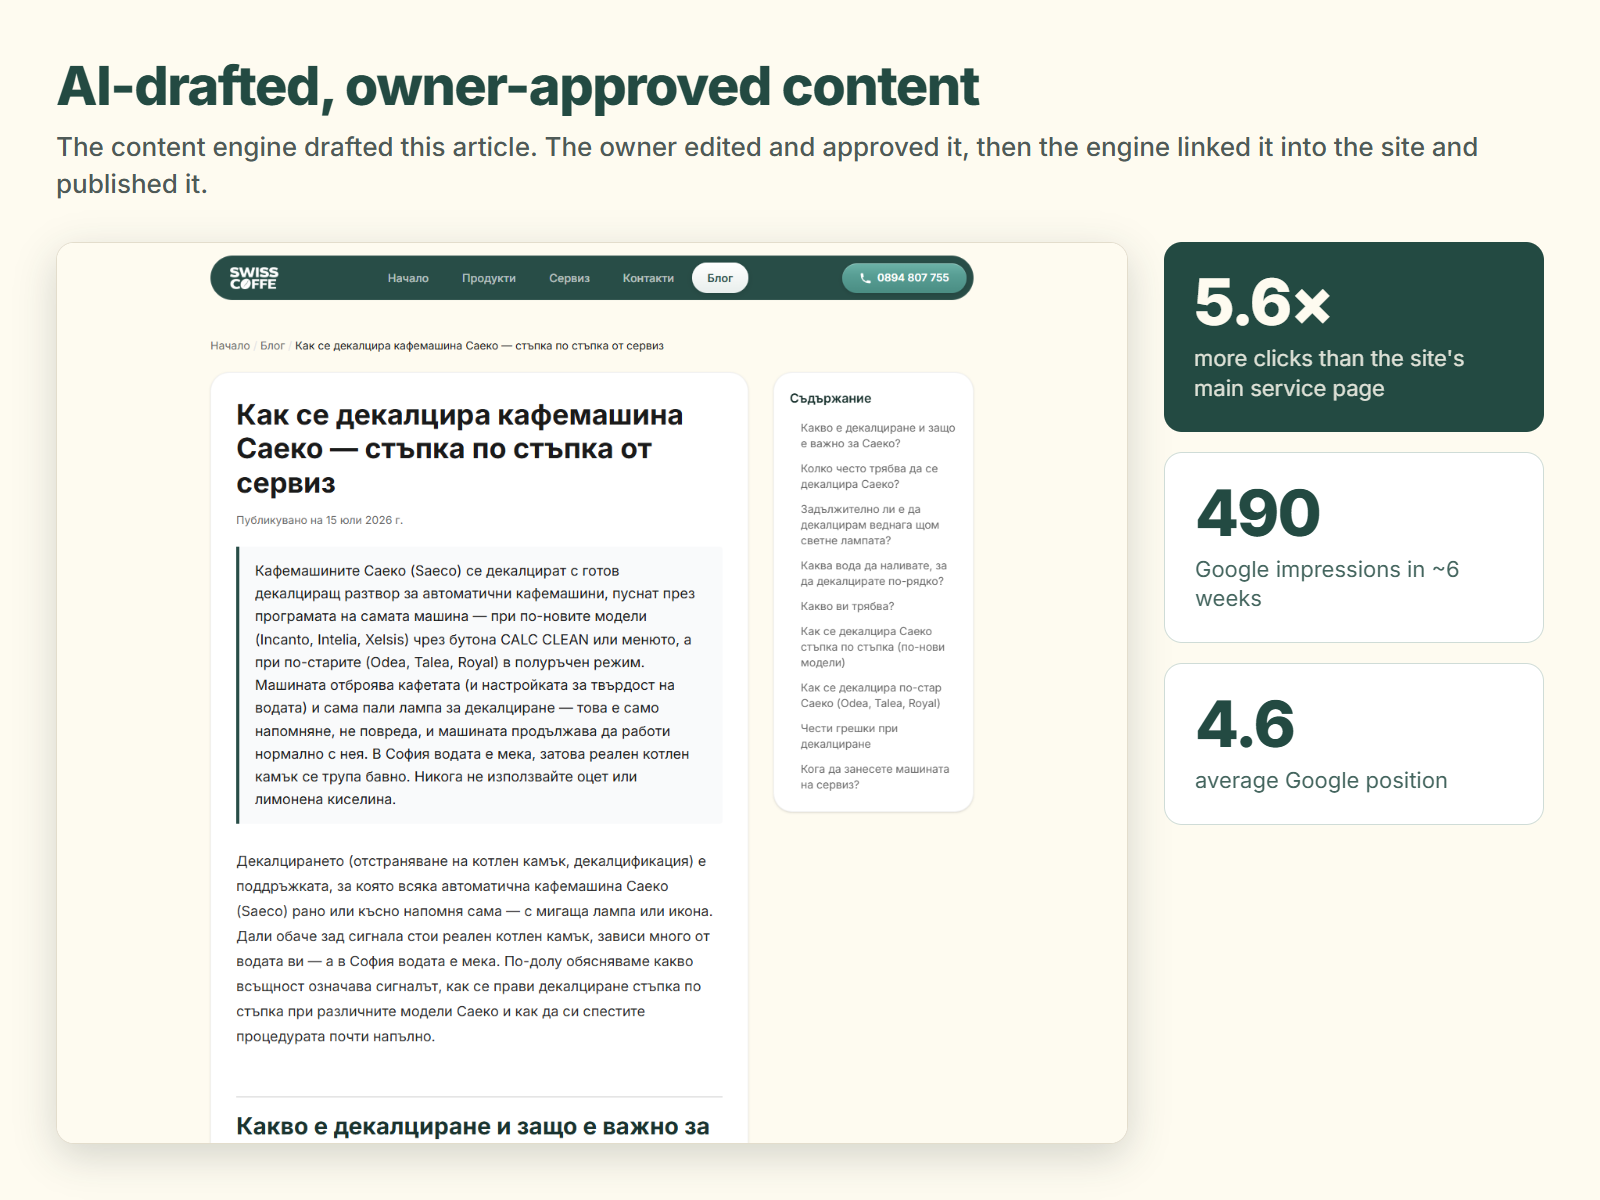
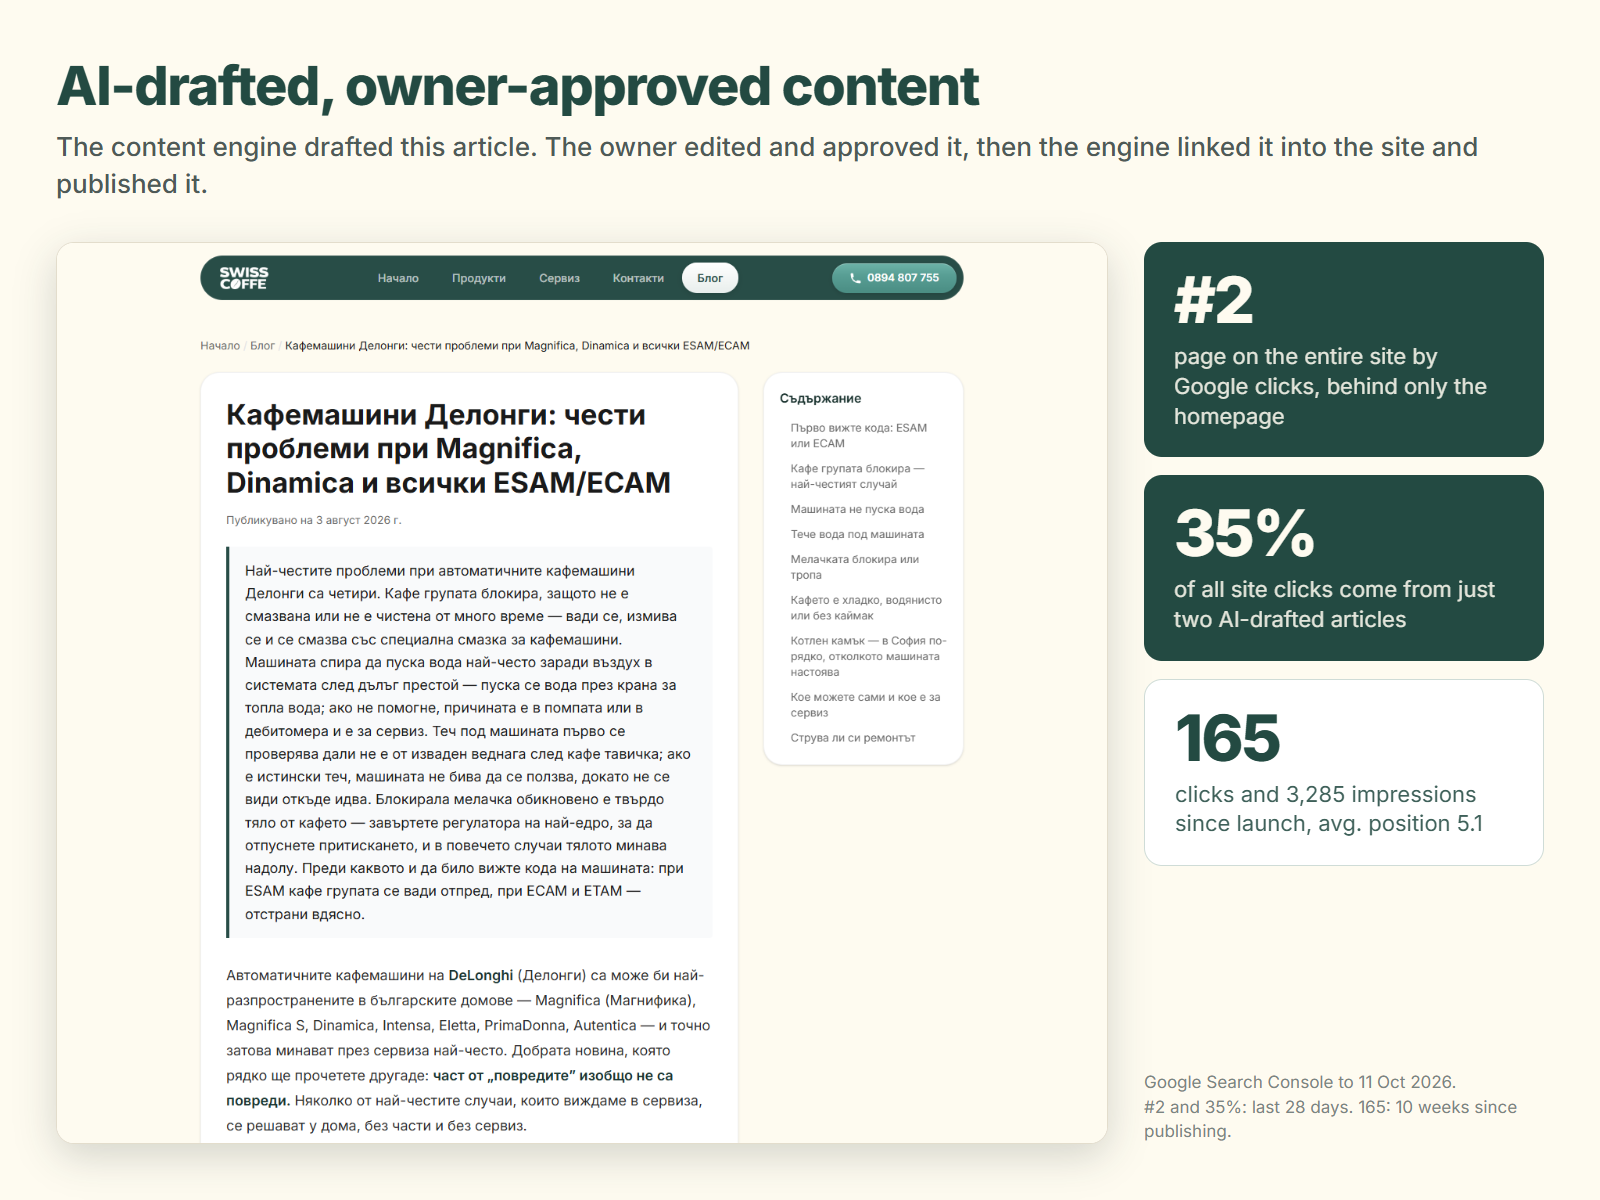
Update blog stats to GSC data through 2026-10-11

diff --git a/README.md b/README.md
@@ -74,8 +74,15 @@ Every page ships valid JSON-LD, generated from data:
 
 ### Results
 
-- The first engine-produced article reached **490 impressions and 28 clicks at average position 4.6** within about six weeks of publishing, **5.6x more clicks than the site's main service page** it was written to support.
-- Around 78% of that article's impressions came from long-tail queries too rare for Search Console to even name. Optimizing for head keywords alone would never have found that traffic.
+Search Console data through 11 October 2026:
+
+| Article | Live since | Impressions | Clicks | Avg. position |
+|---|---|---|---|---|
+| DeLonghi Magnifica / Dinamica common problems | 3 Aug 2026 | 3,285 | 165 | 5.1 |
+| How to descale a Saeco | 15 Jul 2026 | 2,611 | 139 | 5.1 |
+
+- In the last 28 days the DeLonghi article was the **#2 page on the entire site by clicks**, behind only the homepage and ahead of every category and product page.
+- The two articles together brought in **35% of all the site's Google clicks** over the same 28 days.
 - The build ships with **zero broken internal links, zero redirect-hitting links, and zero orphan pages**, all checked automatically on every publish.
 
 ## Tech stack
